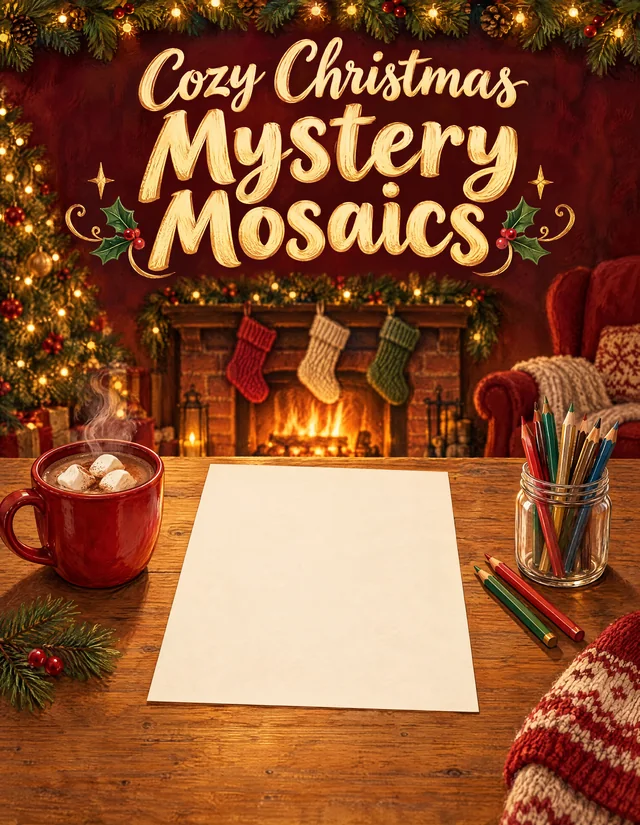
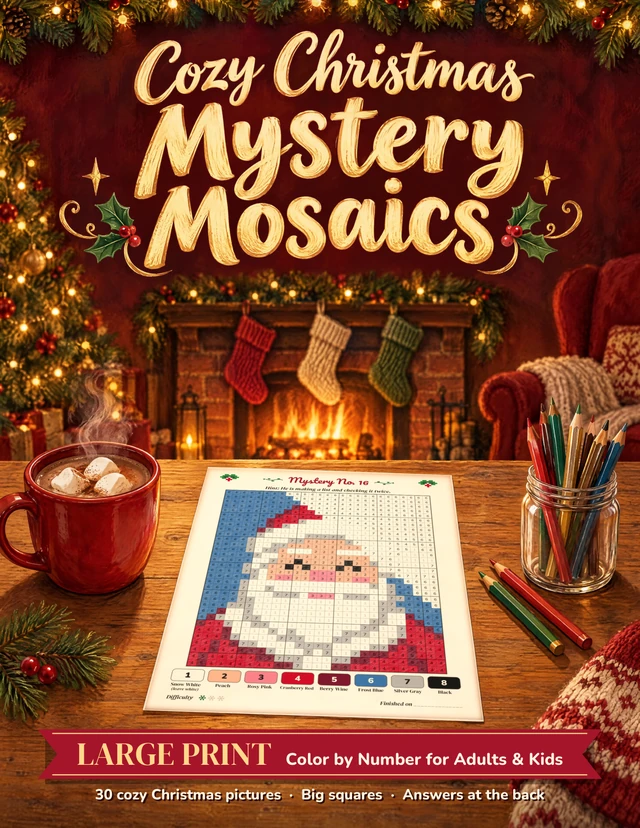
Book covers are the fronts of the covers uploaded to Amazon
The Squishy Coloring Book cover on the site was an earlier draft poster, kept
in the product folder only as a reference for the title style; its dumpling is
stretched on one side. The Cozy Christmas Mystery Mosaics cover was the cover's
background painting with a blank sheet, before the page and the words were
laid on it. Both are replaced with the front panel of the cover PDF that was
uploaded to Amazon, cut at the trim. The Squishy Christmas cover already
matched its uploaded cover and is unchanged.

AGENTS.md now says where a book cover must come from, and that a worktree
inside this checkout needs the outer checkout's node_modules to build.

diff --git a/AGENTS.md b/AGENTS.md
@@ -67,6 +67,10 @@ standard library only. Build from the repository's real path, not through a dire
 junction: through a junction the build finishes but leaves the stylesheet link out of every
 page.
 
+A worktree inside this checkout (such as `.local/wt-<name>`) also needs `npm ci` in the
+checkout that holds it: Vite finds the outer checkout's `tsconfig.json` too, and without that
+checkout's `node_modules` the build stops at "Tsconfig not found astro/tsconfigs/strict".
+
 ## The never-break list
 
 `ops/never-break.toml` lists what must keep answering: `/app-ads.txt` byte for byte (AdMob),
@@ -104,6 +108,9 @@ lives, and the next feed carries it.
   fetched, or does not match its hash, fails the build; nothing is published without it. The
   workflows keep the folder in the Actions cache (`.github/actions/setup`), keyed on the feed;
   a restored file is checked against its hash like any other.
+- A book's cover in `src/assets/books/` is the front panel of the cover file uploaded to Amazon,
+  cut from that PDF at the trim (bleed and spine removed), never a draft, a reference or a poster
+  from the product's working folders.
 - Each printable the feed names gets a page, `printables/<id>/`, and `ops/public-files.txt`
   allows exactly those through its `feed:printables` line.
   `src/data/covers.json` picks which listing picture is a printable's cover when it is not the first.
